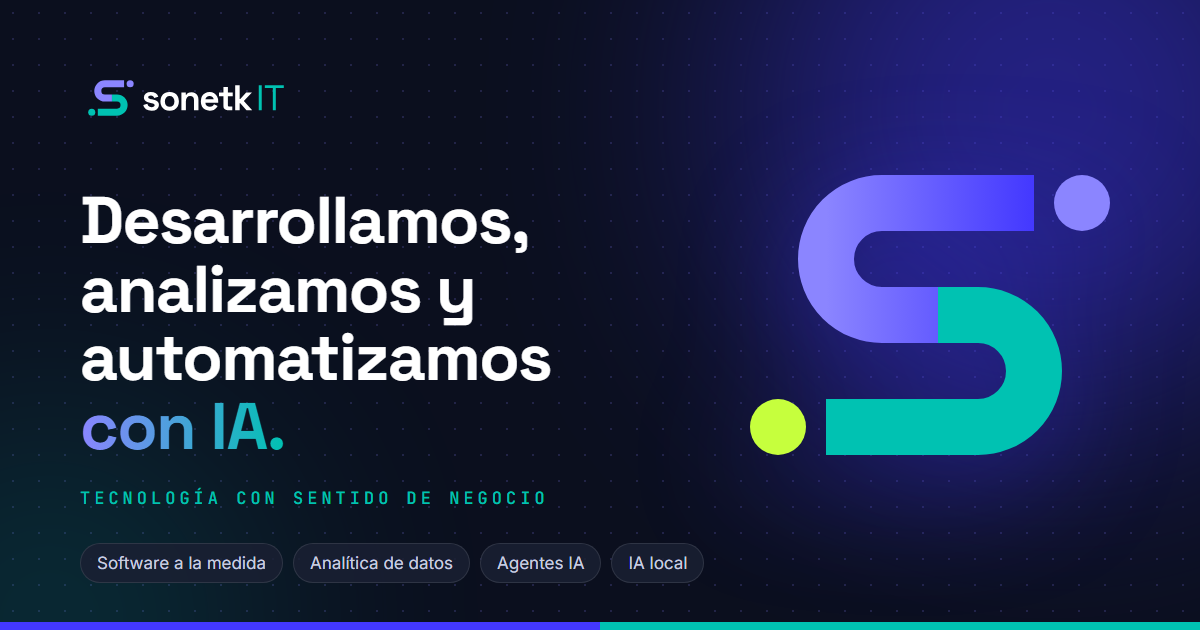
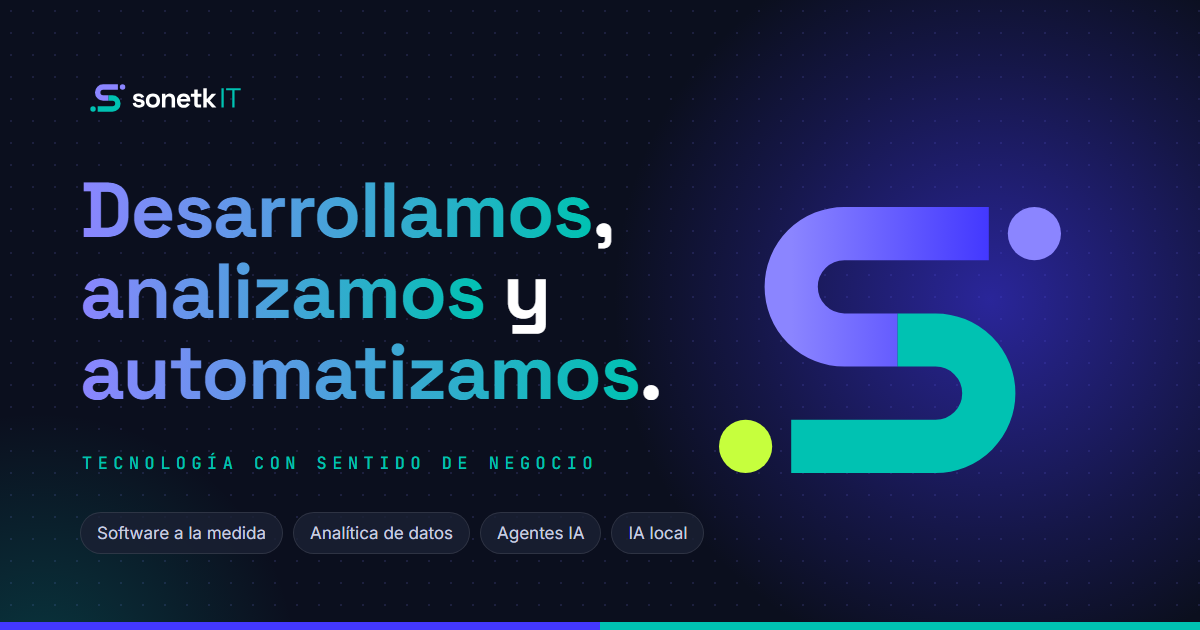
Se ajusta vista previa al compartir el enlace

diff --git a/index.html b/index.html
@@ -12,14 +12,14 @@
 <meta property="og:locale" content="es_CO">
 <meta property="og:site_name" content="Sonetk IT">
 <meta property="og:title" content="Sonetk IT · Tecnología con sentido de negocio">
-<meta property="og:description" content="Desarrollamos, analizamos y automatizamos con IA. Software a la medida, analítica de datos, agentes IA, IA local y consultoría TI en Colombia, Panamá y Costa Rica.">
+<meta property="og:description" content="Desarrollamos, analizamos y automatizamos. Software a la medida, analítica de datos, agentes IA, IA local y consultoría TI en Colombia, Panamá y Costa Rica.">
 <meta property="og:url" content="https://sonetk.com/">
-<meta property="og:image" content="https://sonetk.com/assets/og-image.png">
+<meta property="og:image" content="https://sonetk.com/assets/og-image.png?v=2">
 <meta property="og:image:width" content="1200">
 <meta property="og:image:height" content="630">
-<meta property="og:image:alt" content="Sonetk IT: Desarrollamos, analizamos y automatizamos con IA.">
+<meta property="og:image:alt" content="Sonetk IT: Desarrollamos, analizamos y automatizamos. Tecnología con sentido de negocio.">
 <meta name="twitter:card" content="summary_large_image">
-<meta name="twitter:image" content="https://sonetk.com/assets/og-image.png">
+<meta name="twitter:image" content="https://sonetk.com/assets/og-image.png?v=2">
 <link rel="icon" href="assets/sonetk-favicon.svg" type="image/svg+xml">
 <link rel="preconnect" href="https://fonts.googleapis.com">
 <link rel="preconnect" href="https://fonts.gstatic.com" crossorigin>
